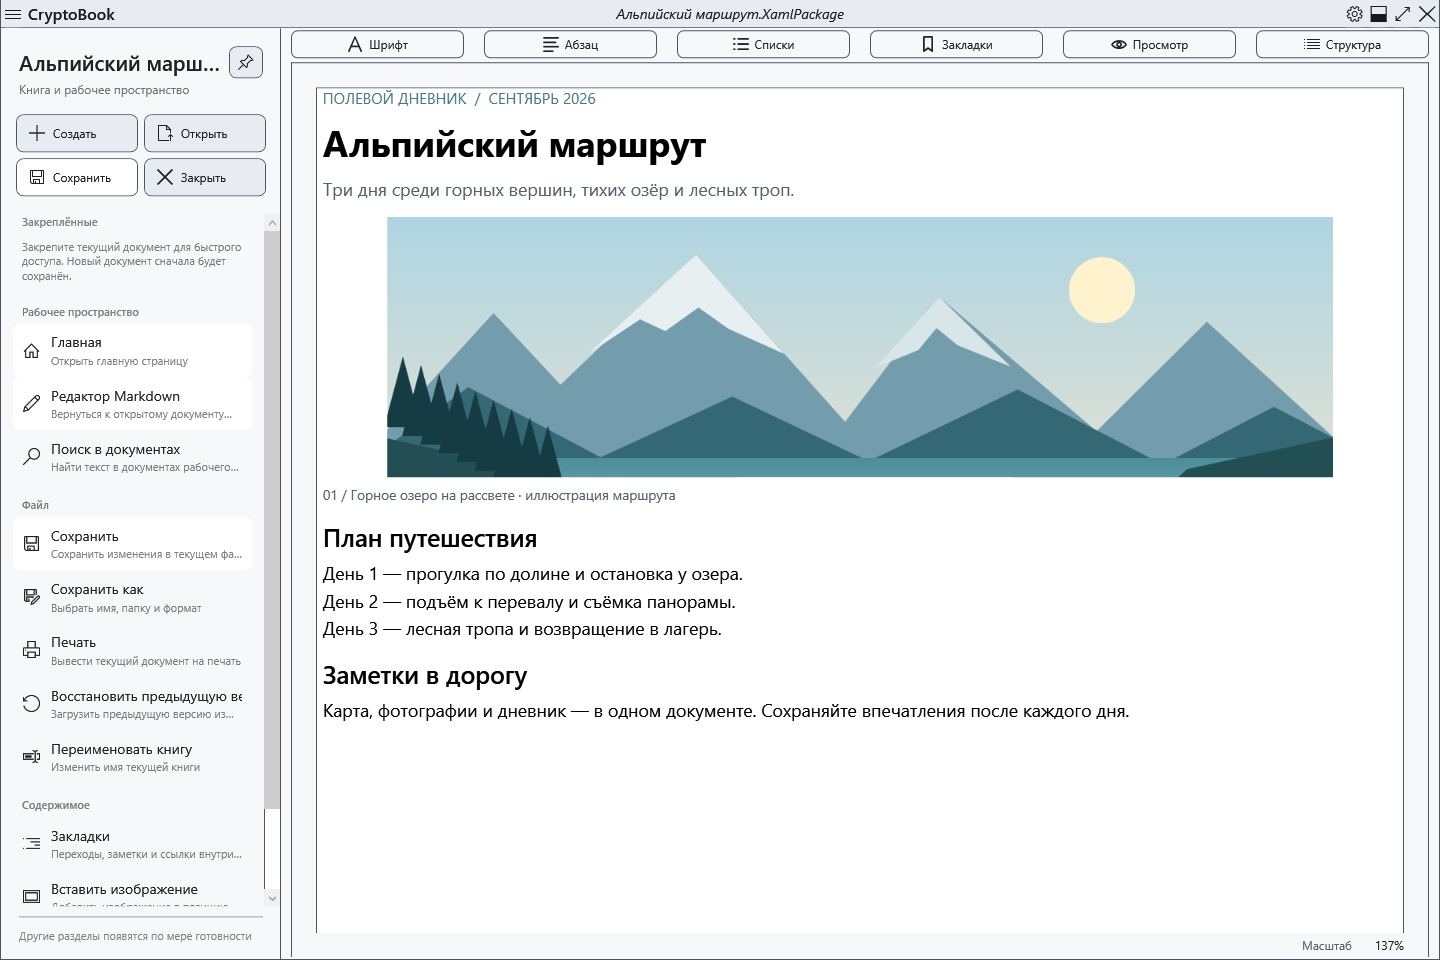
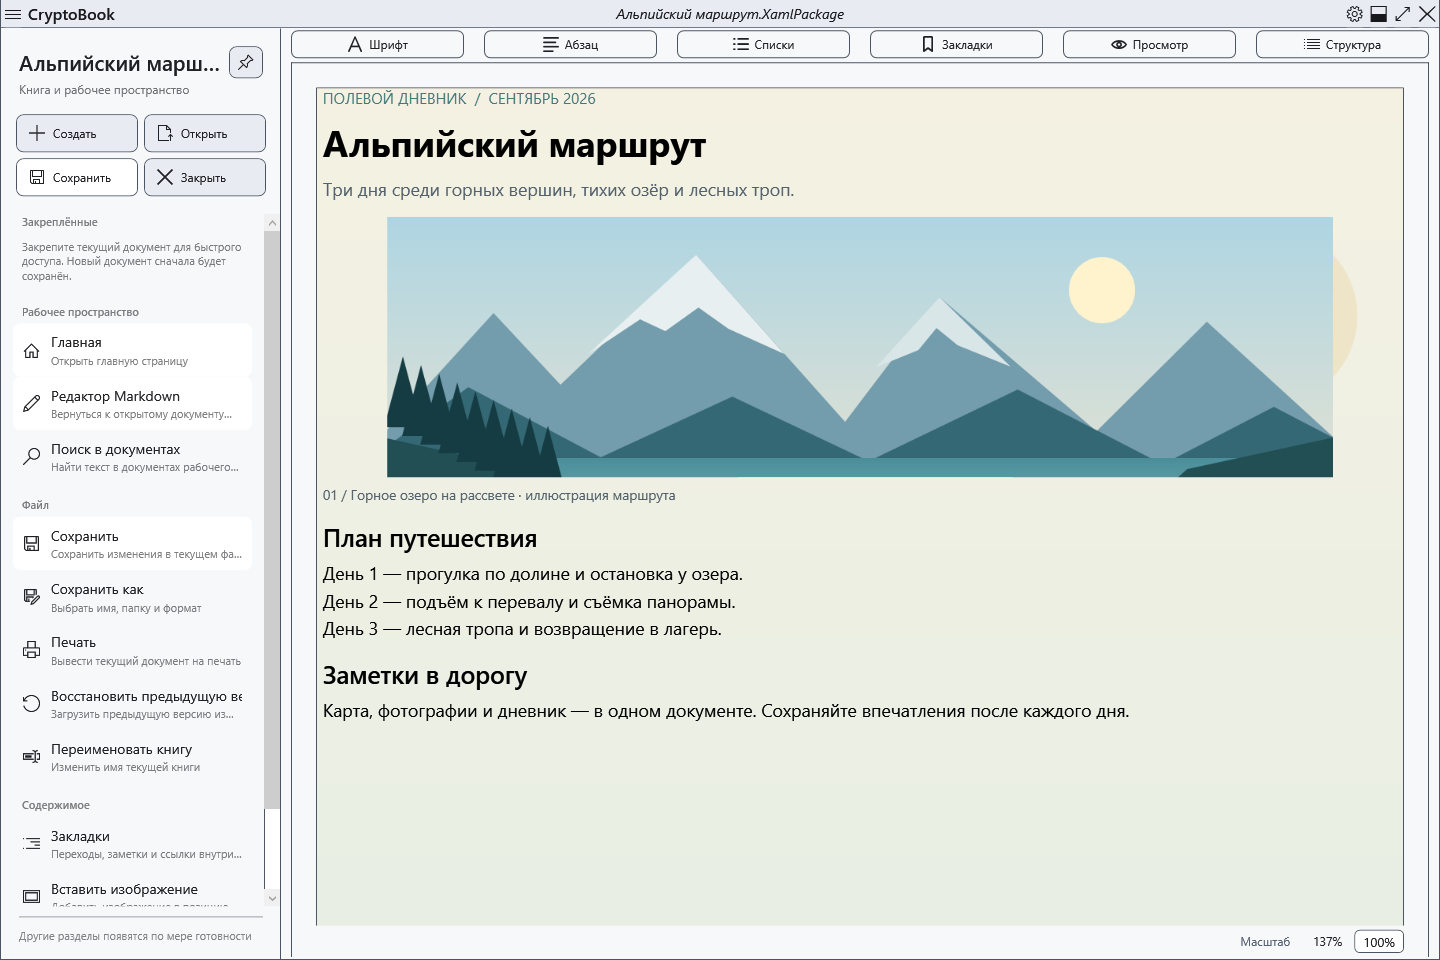
Release 1.1.3.5

diff --git a/tools/ScreenshotCapture/Program.cs b/tools/ScreenshotCapture/Program.cs
@@ -81,14 +81,23 @@ internal static class Program
         window.ShowActivated = false;
         string picture = Path.Combine(output, "demo", "mountain-lake.png");
         DrawLandscape(picture);
+        string paper = Path.Combine(output, "demo", "paper-background.png");
+        DrawPaperBackground(paper);
         var document = CreateDocument(picture);
         string documentPath = Path.Combine(output, "demo", "Альпийский маршрут.XamlPackage");
-        using(var stream = File.Create(documentPath))
-            new TextRange(document.ContentStart, document.ContentEnd).Save(stream, DataFormats.XamlPackage);
         var session = host.Scope.Resolve<IDocumentSession>();
         session.Open(documentPath, new XamlPackageFileTemplate(), document);
         manager.ShowWindow(id);
         await Settle(window);
+        var fonts = host.Scope.Resolve<IFontService>();
+        fonts.SetDocumentBackgroundImage(new BitmapImage(new Uri(paper)));
+        await Settle(window);
+        // Serialize the demonstration through the production codec, including its
+        // editable background metadata. No user documents or settings are involved.
+        using(var stream = File.Create(documentPath))
+            await host.Scope.Resolve<IFlowDocumentSaveService>().SaveToStreamAsync(
+                fonts.Service, stream, new XamlPackageFileTemplate());
+        session.MarkSaved(documentPath, new XamlPackageFileTemplate());
         Save(window, Path.Combine(output, "editor.png"));
 
         host.Scope.Resolve<IMainWindowModel>().IsMenuOpen = true;
@@ -215,6 +224,30 @@ internal static class Program
     }
 
     private static SolidColorBrush Brush(string hex) => new((Color)ColorConverter.ConvertFromString(hex));
+
+    private static void DrawPaperBackground(string path)
+    {
+        // Original pale stationery artwork, used as a real document image background.
+        var visual = new DrawingVisual();
+        using(var dc = visual.RenderOpen())
+        {
+            dc.DrawRectangle(new LinearGradientBrush(Color.FromRgb(244, 241, 226),
+                Color.FromRgb(223, 236, 230), 90), null, new Rect(0, 0, 1000, 1414));
+            for(int i = 0; i < 9; i++)
+            {
+                double y = 880 + i * 43;
+                var contour = new StreamGeometry();
+                using(var line = contour.Open())
+                {
+                    line.BeginFigure(new Point(0, y + 100), false, false);
+                    line.BezierTo(new Point(290, y - 125), new Point(500, y + 160), new Point(1000, y - 95), true, false);
+                }
+                dc.DrawGeometry(null, new Pen(Brush("#CBDCD2"), 2), contour);
+            }
+            dc.DrawEllipse(Brush("#EEE4C8"), null, new Point(875, 210), 82, 82);
+        }
+        Save(visual, path, 1000, 1414);
+    }
 
     private static void DrawLandscape(string path)
     {

diff --git a/CryptoBook.Tests/ApplicationUpdateServiceTests.cs b/CryptoBook.Tests/ApplicationUpdateServiceTests.cs
@@ -13,7 +13,7 @@ public sealed class ApplicationUpdateServiceTests
     {
         var provider = new AssemblyApplicationVersionProvider();
 
-        Assert.Equal("1.1.3.4", provider.GetCurrentVersion().ToString());
+        Assert.Equal("1.1.3.5", provider.GetCurrentVersion().ToString());
     }
 
     [Fact]

diff --git a/docs/releases/v1.1.3.5.md b/docs/releases/v1.1.3.5.md
@@ -1,0 +1,42 @@
+# CryptoBook 1.1.3.5
+
+Windows-бинарники не подписаны Authenticode; контрольные суммы предоставляются
+в `SHA256SUMS.txt`, статус подписи — в `SIGNING-STATUS.txt`.
+
+## Основные изменения
+
+- Фоновое изображение можно перемещать сочетанием **Ctrl + перетаскивание левой кнопкой мыши**.
+  **Esc** отменяет текущее перемещение. Изображение не выходит за границы бумаги и не оставляет пустых краёв.
+- Положение фона сохраняется при масштабировании, прокрутке и изменении размеров окна.
+  Устранены заливка рабочей области за листом и двойная отрисовка полупрозрачного фона.
+- При сохранении в XamlPackage или защищённый текстовый документ программа запрашивает
+  подтверждение обрезки. После успешной записи остаются только пиксели выбранной области,
+  а фон больше нельзя перемещать; для нового кадрирования нужно выбрать другое изображение.
+- Отмена и ошибка сохранения оставляют исходный фон доступным для перемещения.
+  Изображение, выбранное во время записи, не заменяется предыдущим фоном.
+- В режиме чтения скрывается слой границ редактора. При возвращении к редактированию
+  границы листа восстанавливаются.
+- README на русском и английском дополнены новыми скриншотами текущих окон:
+  дневник с иллюстрацией и фоном, боковое меню, чтение Sepia, Markdown и справка.
+
+## Highlights
+
+- Reposition a background image with **Ctrl + left mouse drag**; **Esc** cancels the current drag.
+- Keep the background within the paper and preserve its placement across zoom, scrolling and resizing.
+  Translucent backgrounds are no longer painted twice.
+- Confirm cropping when saving XamlPackage or protected rich-text documents. Successful saves embed
+  only the selected pixels and lock the crop; select another background image to adjust it again.
+- Cancelled or failed saves preserve the editable original. A newer background selected during a save is retained.
+- Hide editor page borders in reading preview and restore them when returning to the editor.
+- Refresh both README galleries with current WPF views and illustrated demonstration content.
+
+## Проверки сборки
+
+- Восстановление зависимостей с `--locked-mode` выполнено успешно.
+- Release-тесты: **635/635**, без ошибок и пропусков.
+- Проверка происхождения FFmpeg и WPF-шаблона Flyleaf: **PASS**.
+- Пересняты и визуально проверены пять штатных WPF-представлений.
+- Локальный установщик успешно обновил 1.1.3.4 до 1.1.3.5 без перезагрузки Windows.
+  Установленные EXE и сопроводительные файлы совпадают со сборкой; программа запущена и отвечает.
+
+Full comparison: [v1.1.3.4...v1.1.3.5](https://github.com/RomanovCopy/CryptoBook/compare/v1.1.3.4...v1.1.3.5)

diff --git a/README.md b/README.md
@@ -3,7 +3,7 @@
 [Русский](README.ru.md)
 
 [![CI](https://github.com/RomanovCopy/CryptoBook/actions/workflows/ci.yml/badge.svg)](https://github.com/RomanovCopy/CryptoBook/actions/workflows/ci.yml)
-[![Version](https://img.shields.io/badge/version-1.1.3.4-2ea44f)](https://github.com/RomanovCopy/CryptoBook/releases/tag/v1.1.3.4)
+[![Version](https://img.shields.io/badge/version-1.1.3.5-2ea44f)](https://github.com/RomanovCopy/CryptoBook/releases/tag/v1.1.3.5)
 [![.NET 10](https://img.shields.io/badge/.NET-10.0-512BD4)](https://dotnet.microsoft.com/download/dotnet/10.0)
 [![Platform](https://img.shields.io/badge/platform-Windows%20x64-0078D4)](https://www.microsoft.com/windows)
 [![License](https://img.shields.io/badge/license-GPL--3.0--only-blue)](LICENSE)
@@ -47,18 +47,20 @@ machine unless you explicitly move or share them.
 | **Sepia reading mode** | **Document navigation** |
 | ![Illustrated document in Sepia](docs/screenshots/sepia-reading.png) | ![Side menu and illustrated document](docs/screenshots/side-menu.png) |
 
-Screenshots show version 1.1.3.3 with demonstration content. See the
+Screenshots show version 1.1.3.5 with an illustrated travel journal and a page background. See the
 [capture notes and sample documents](docs/screenshots/README.md).
 
-## New in 1.1.3.4
+## New in 1.1.3.5
 
-- Hold Ctrl and turn the mouse wheel to zoom the rich-text editor.
-- Click **100%** beside the zoom indicator to restore the actual page scale.
-- Zoom changes only the view, preserving the document's page size, fonts and content.
-- Window resizing retains the zoom factor relative to the automatic fit-to-width scale;
-  the displayed percentage can change after resizing, including after a reset to 100%.
+- Reposition a document background image with **Ctrl + left mouse drag**; press **Esc** to cancel the drag.
+- Background images stay within the paper and retain their placement while zooming, scrolling and resizing.
+- Saving to XamlPackage or a protected rich-text document asks you to confirm the crop.
+  After a successful save, only the chosen image area remains embedded and its position is locked;
+  choose another background image to change the crop. Cancellation or a failed save leaves it editable.
+- Reading preview no longer shows the editor's page borders over the document.
+- Refreshed screenshots show the current editor, reading mode and Markdown views with sample content.
 
-See the [release notes](docs/releases/v1.1.3.4.md) and [changelog](CHANGELOG.md).
+See the [release notes](docs/releases/v1.1.3.5.md) and [changelog](CHANGELOG.md).
 
 ## Main features
 
@@ -153,7 +155,7 @@ dotnet build CryptoBook/CryptoBook.sln -c Release --no-restore
 dotnet test CryptoBook/CryptoBook.sln -c Release --no-restore
 
 # Self-contained single-file x64 build and installer (requires Inno Setup 6)
-./installer/Build-Installer.ps1 -Version 1.1.3.4
+./installer/Build-Installer.ps1 -Version 1.1.3.5
 ```
 
 To build a self-contained x64 package and installer, install Inno Setup 6 and run:

diff --git a/docs/screenshots/README.md b/docs/screenshots/README.md
@@ -1,6 +1,6 @@
-# Скриншоты CryptoBook 1.1.3.3
+# Скриншоты CryptoBook 1.1.3.5
 
-Обновлено 9 сентября 2026 года. `editor.png`, `side-menu.png`,
+Обновлено 13 сентября 2026 года. `editor.png`, `side-menu.png`,
 `sepia-reading.png`, `markdown-preview.png` и `markdown-help.png` сняты
 с текущих WPF-окон CryptoBook, созданных через контейнер приложения.
 Используются настоящие XAML-представления, темы, модели представления,
@@ -8,17 +8,23 @@
 
 Снимки показывают вымышленный полевой дневник. Текст, таблица и иллюстрация
 созданы для демонстрации; личные документы пользователя не используются.
-Оригинальная иллюстрация горного озера рисуется средствами WPF; её исходная
-геометрия находится в `tools/ScreenshotCapture/Program.cs`.
+Оригинальная иллюстрация горного озера и светлый фон с контурными линиями
+рисуются средствами WPF; их исходная геометрия находится в
+`tools/ScreenshotCapture/Program.cs`. Фон установлен через сервис приложения;
+в режиме чтения виден весь лист без наложения границ редактора.
 
 ## Демонстрационные документы
 
 - [Альпийский маршрут.XamlPackage](demo/Альпийский%20маршрут.XamlPackage) —
-  форматированный документ со встроенной иллюстрацией.
+  форматированный документ со встроенной иллюстрацией и фоном страницы.
+  Демонстрационный файл сериализуется через штатный кодек с ещё редактируемым
+  фоном: при первом обычном сохранении программа предложит зафиксировать кадрирование.
 - [Полевой дневник.md](demo/Полевой%20дневник.md) — Markdown с заголовками,
   таблицей, цитатой, списком и относительной ссылкой на локальное изображение.
 - [mountain-lake.png](demo/mountain-lake.png) — иллюстрация для Markdown;
   оставьте её в одной папке с документом.
+- [paper-background.png](demo/paper-background.png) — исходное изображение фона,
+  также встроенное в демонстрационный XamlPackage.
 
 ## Повторная съёмка
 

diff --git a/CHANGELOG.md b/CHANGELOG.md
@@ -1,5 +1,28 @@
 # Changelog
 
+## 1.1.3.5 - 2026-09-13
+
+### Added
+
+- Reposition an editable document background with Ctrl + left mouse drag; Esc restores the crop from before the drag.
+- Confirm background cropping when saving XamlPackage and protected rich-text documents.
+  A successful save embeds only the selected pixels and locks the crop until a new background is chosen.
+
+### Fixed
+
+- Keep background images within the paper, without filling the surrounding workspace or painting translucent images twice.
+- Preserve background placement across editor resizing, zooming and scrolling; clamp dragging to prevent empty paper edges.
+- Keep the original background editable when saving is cancelled or fails; do not overwrite a newer background selected during a save.
+- Hide the editor's adorner layer in reading preview and restore page borders when returning to editing.
+
+### Changed
+
+- Extend WPF coverage for rendered backgrounds, dragging, crop persistence, save failures and preview borders.
+- Refresh README screenshots with the current WPF views, an illustrated journal and a page background.
+- Synchronize application, installer, documentation and release metadata for 1.1.3.5.
+
+Full comparison: [v1.1.3.4...v1.1.3.5](https://github.com/RomanovCopy/CryptoBook/compare/v1.1.3.4...v1.1.3.5)
+
 ## 1.1.3.4 - 2026-09-12
 
 ### Added

diff --git a/ASSET_PROVENANCE.md b/ASSET_PROVENANCE.md
@@ -1,11 +1,11 @@
 # Asset provenance
 
-## Screenshot refresh for 1.1.3.3 (2026-09-09)
+## Screenshot refresh for 1.1.3.5 (2026-09-13)
 
 Five current application views were captured from the production WPF controls
 using `tools/ScreenshotCapture`: editor, side menu, Sepia reading preview,
 Markdown preview and Markdown syntax help. The demonstration text and original
-mountain-lake illustration are generated by the same checked-in helper; no
+mountain-lake illustration and pale contour-line paper background are generated by the same checked-in helper; no
 external photographs or personal documents are included. See
 [`docs/screenshots/README.md`](docs/screenshots/README.md) for the source files,
 capture method and reproduction command. The screenshots are unretouched WPF

diff --git a/SOURCE_CODE.md b/SOURCE_CODE.md
@@ -12,7 +12,7 @@ the distributor must also satisfy the source-code requirements of GNU GPL v3
 section 6; a link to an unrelated or moving branch is not a substitute for the
 corresponding source of the conveyed binary.
 
-CryptoBook 1.1.3.4 consumes the local RID-native package
+CryptoBook 1.1.3.5 consumes the local RID-native package
 `CryptoBook.Flyleaf.FFmpeg.Runtime.Windows.X64` 9.0.20260816. It contains the
 unmodified FFmpeg DLLs from the official Flyleaf v3.11.3 release. The libraries
 report `GPL version 3 or later` and identify the exact FFmpeg tree at commit

diff --git a/THIRD_PARTY_NOTICES.md b/THIRD_PARTY_NOTICES.md
@@ -1,7 +1,7 @@
 # Third-party notices
 
 CryptoBook uses the third-party components listed below. This notice is based
-on the dependency locks committed for CryptoBook 1.1.3.4 and was audited on
+on the dependency locks committed for CryptoBook 1.1.3.5 and was audited on
 2026-09-07. A package's own license and notices control if this summary differs
 from them. CryptoBook does not claim ownership of third-party software.
 
